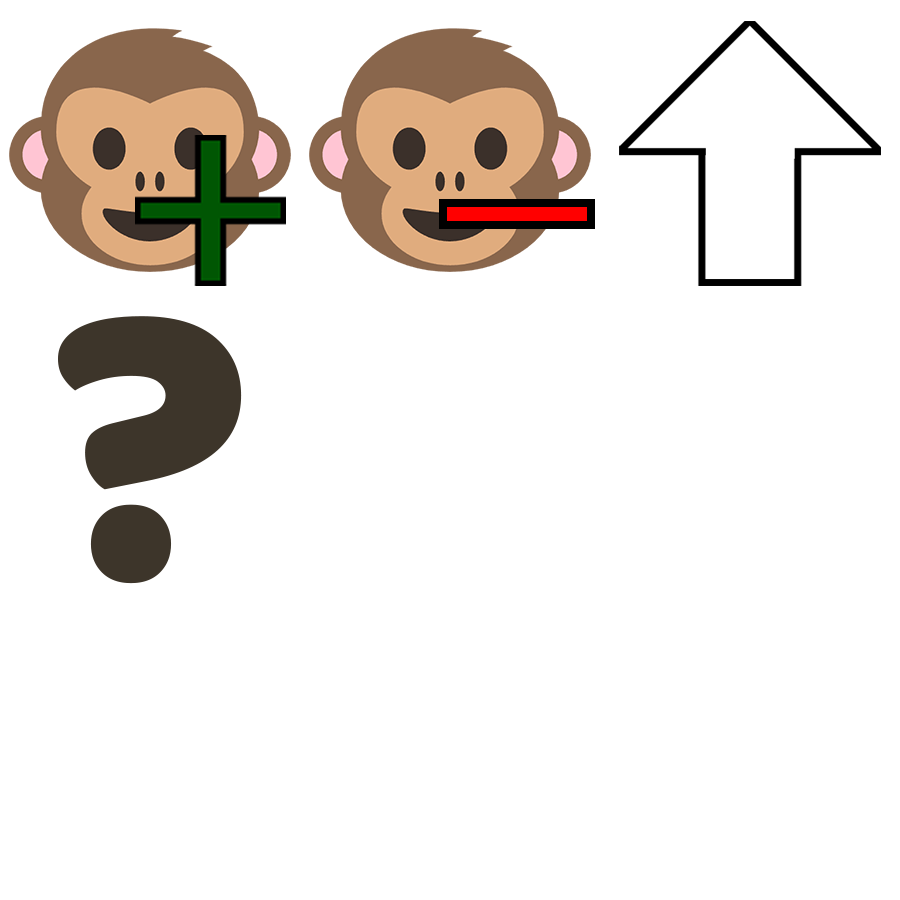
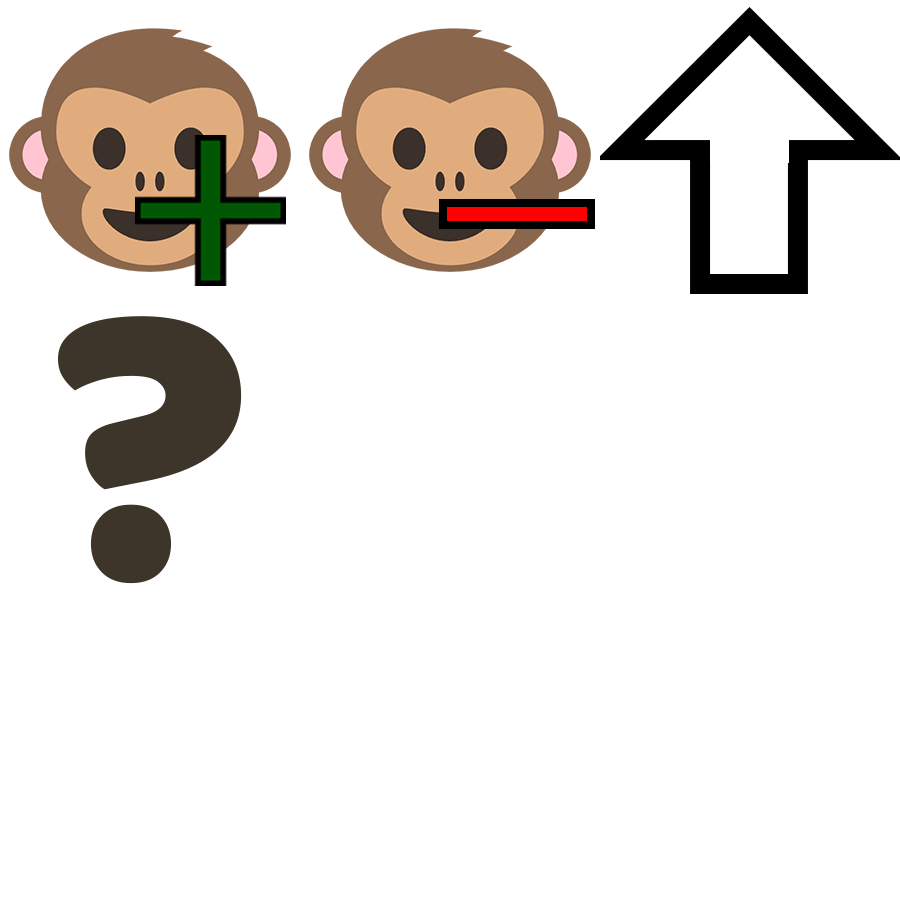
made arrow thicker saved scene and fixed bug where wed unlock spiketrap over and over and over

Changed region(s): [[0.6533, 0.0, 1.0, 0.3422]]

diff --git a/Assets/Scripts/GameLogic/BuildingProgression.cs b/Assets/Scripts/GameLogic/BuildingProgression.cs
@@ -5,7 +5,11 @@ public class BuildingProgression : MonoBehaviour
     void Update()
     {   
         // unlock traps if we've placed a bananafarm and archertower
-        if(BuildingManager.instance.GetBuildingsOfType(BuildingType.BananaFarm).Count > 0 && BuildingManager.instance.GetBuildingsOfType(BuildingType.ArcherTower).Count > 0)
+        if(
+            BuildingManager.instance.GetBuildingsOfType(BuildingType.BananaFarm).Count > 0 && 
+            BuildingManager.instance.GetBuildingsOfType(BuildingType.ArcherTower).Count > 0 &&
+            !BuildingUnlock.Unlocked(BuildingType.SpikeTrap)
+            )
         {
             BuildingUnlock.Unlock(BuildingType.SpikeTrap);
         }
